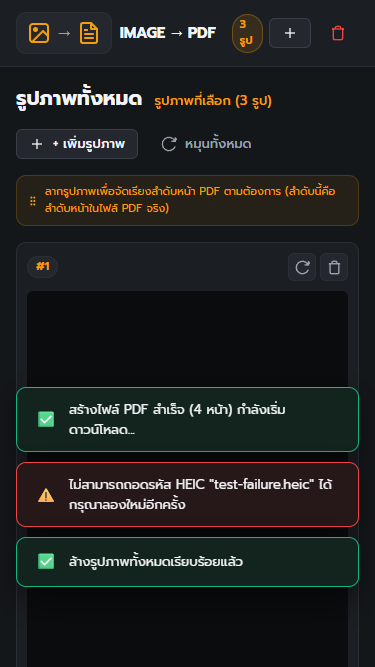
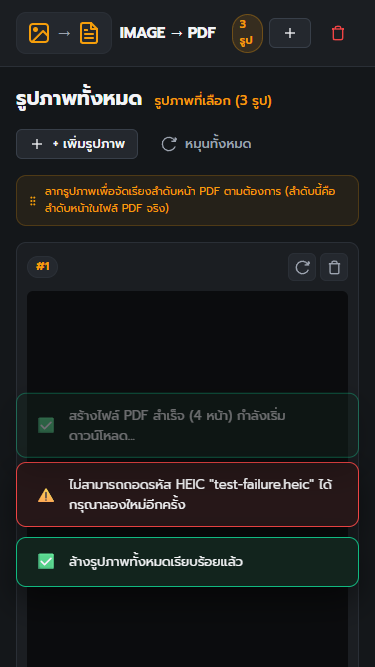
fix: resolve drag and drop reordering and external file dropping

Changed region(s): [[0.0293, 0.5697, 0.968, 0.6897], [0.0293, 0.5697, 0.088, 0.5997]]

diff --git a/app.js b/app.js
@@ -116,48 +116,61 @@
     // Rotate All
     el.btnRotateAll.addEventListener('click', handleRotateAll);
 
-    // Drag & Drop on Initial Drop Zone
-    ['dragenter', 'dragover'].forEach(eventName => {
-      el.initialDropZone.addEventListener(eventName, (e) => {
-        e.preventDefault();
-        e.stopPropagation();
-        el.initialDropZone.classList.add('drag-active');
-      });
-    });
+    // Helper to distinguish OS file drag vs internal card reorder drag
+    function isFileDrag(e) {
+      if (!e.dataTransfer || !e.dataTransfer.types) return false;
+      const types = Array.from(e.dataTransfer.types);
+      return types.includes('Files') || types.includes('application/x-moz-file');
+    }
 
-    ['dragleave', 'drop'].forEach(eventName => {
-      el.initialDropZone.addEventListener(eventName, (e) => {
-        e.preventDefault();
-        e.stopPropagation();
-        el.initialDropZone.classList.remove('drag-active');
-      });
-    });
+    let dragDepth = 0;
 
-    el.initialDropZone.addEventListener('drop', (e) => {
-      if (e.dataTransfer && e.dataTransfer.files) {
-        handleFiles(Array.from(e.dataTransfer.files));
-      }
-    });
-
-    // Drag & Drop onto entire window/workspace
-    window.addEventListener('dragover', (e) => {
+    // Window-level File Drag & Drop (Works on initial screen & active workspace)
+    window.addEventListener('dragenter', (e) => {
+      if (!isFileDrag(e)) return;
       e.preventDefault();
+      e.stopPropagation();
+      dragDepth++;
       if (state.items.length > 0) {
         el.workspaceDropArea.classList.add('drag-over');
+      } else {
+        el.initialDropZone.classList.add('drag-active');
       }
     });
 
-    ['dragleave', 'drop'].forEach(eventName => {
-      window.addEventListener(eventName, (e) => {
-        if (e.relatedTarget === null || eventName === 'drop') {
-          el.workspaceDropArea.classList.remove('drag-over');
-        }
-      });
+    window.addEventListener('dragover', (e) => {
+      if (!isFileDrag(e)) return;
+      e.preventDefault();
+      e.stopPropagation();
+      try {
+        e.dataTransfer.dropEffect = 'copy';
+      } catch (_) {}
+      if (state.items.length > 0) {
+        el.workspaceDropArea.classList.add('drag-over');
+      } else {
+        el.initialDropZone.classList.add('drag-active');
+      }
+    });
+
+    window.addEventListener('dragleave', (e) => {
+      if (!isFileDrag(e)) return;
+      e.preventDefault();
+      e.stopPropagation();
+      dragDepth = Math.max(0, dragDepth - 1);
+      if (dragDepth === 0) {
+        el.workspaceDropArea.classList.remove('drag-over');
+        el.initialDropZone.classList.remove('drag-active');
+      }
     });
 
     window.addEventListener('drop', (e) => {
+      if (!isFileDrag(e)) return;
       e.preventDefault();
+      e.stopPropagation();
+      dragDepth = 0;
       el.workspaceDropArea.classList.remove('drag-over');
+      el.initialDropZone.classList.remove('drag-active');
+
       if (e.dataTransfer && e.dataTransfer.files && e.dataTransfer.files.length > 0) {
         handleFiles(Array.from(e.dataTransfer.files));
       }
@@ -206,11 +219,18 @@
   // --- SortableJS Initialization ---
   function setupSortable() {
     if (window.Sortable && el.thumbnailGrid) {
+      if (sortableInstance) {
+        sortableInstance.destroy();
+      }
       sortableInstance = new Sortable(el.thumbnailGrid, {
         animation: 180,
-        handle: '.card-preview-container',
         ghostClass: 'sortable-ghost',
         chosenClass: 'sortable-chosen',
+        filter: '.card-action-btn, .reorder-btn, button, input, select, svg, path',
+        preventOnFilter: false,
+        fallbackOnBody: true,
+        swapThreshold: 0.65,
+        touchStartThreshold: 3,
         onEnd: function(evt) {
           if (evt.oldIndex !== evt.newIndex) {
             const [movedItem] = state.items.splice(evt.oldIndex, 1);
@@ -392,6 +412,7 @@
         const card = createCardElement(item, index);
         el.thumbnailGrid.appendChild(card);
       });
+      setupSortable();
     } else {
       // Just update existing card badges and indices for performance
       const cards = el.thumbnailGrid.querySelectorAll('.thumb-card');
@@ -432,7 +453,7 @@
       </div>
       
       <div class="card-preview-container" title="ลากเพื่อสลับลำดับ">
-        <img class="card-preview-img" src="${item.objectUrl}" alt="${escapeHtml(item.name)}" style="transform: rotate(${item.rotation}deg);">
+        <img class="card-preview-img" src="${item.objectUrl}" alt="${escapeHtml(item.name)}" draggable="false" style="transform: rotate(${item.rotation}deg);">
       </div>
 
       <div class="card-meta">
@@ -896,5 +917,6 @@
   }
 
 })();
+
 
 

diff --git a/styles.css b/styles.css
@@ -533,6 +533,11 @@ button, input, select, textarea {
   position: relative;
   transition: transform var(--transition-fast), box-shadow var(--transition-fast), border-color var(--transition-fast);
   user-select: none;
+  cursor: grab;
+}
+
+.thumb-card:active {
+  cursor: grabbing;
 }
 
 .thumb-card:hover {
@@ -626,6 +631,9 @@ button, input, select, textarea {
   object-fit: contain;
   transition: transform 0.25s cubic-bezier(0.2, 0, 0, 1);
   pointer-events: none;
+  -webkit-user-drag: none;
+  user-drag: none;
+  user-select: none;
 }
 
 /* Metadata Footer */
@@ -691,27 +699,41 @@ button, input, select, textarea {
 .workspace-drop-overlay {
   position: absolute;
   inset: 0;
-  background-color: rgba(15, 17, 19, 0.88);
+  background-color: rgba(15, 17, 19, 0.82);
   border: 3px dashed var(--accent-amber);
   border-radius: var(--radius-lg);
   display: flex;
-  flex-direction: column;
-  align-items: center;
+  align-items: flex-start;
   justify-content: center;
-  gap: 16px;
+  padding-top: 40px;
   color: var(--accent-amber);
-  font-size: 18px;
-  font-weight: 600;
   opacity: 0;
-  pointer-events: none;
+  pointer-events: none !important;
   transition: opacity var(--transition-fast);
   z-index: 50;
   backdrop-filter: blur(4px);
 }
 
+.workspace-drop-overlay-content {
+  position: sticky;
+  top: 35vh;
+  display: flex;
+  flex-direction: column;
+  align-items: center;
+  justify-content: center;
+  gap: 12px;
+  background-color: rgba(27, 30, 34, 0.95);
+  border: 1px solid var(--accent-amber);
+  padding: 24px 36px;
+  border-radius: var(--radius-lg);
+  box-shadow: 0 12px 32px rgba(0, 0, 0, 0.6);
+  font-size: 18px;
+  font-weight: 600;
+  pointer-events: none !important;
+}
+
 .workspace-canvas.drag-over .workspace-drop-overlay {
   opacity: 1;
-  pointer-events: auto;
 }
 
 /* ==========================================================================
@@ -1268,4 +1290,5 @@ button, input, select, textarea {
     width: 100% !important;
   }
 }
+
 

diff --git a/index.html b/index.html
@@ -201,12 +201,14 @@
             
             <!-- Floating drop overlay for dragging files into workspace -->
             <div class="workspace-drop-overlay" id="workspaceDropOverlay">
-              <svg width="48" height="48" viewBox="0 0 24 24" fill="none" stroke="currentColor" stroke-width="2">
-                <path d="M21 15v4a2 2 0 0 1-2 2H5a2 2 0 0 1-2-2v-4"/>
-                <polyline points="17 8 12 3 7 8"/>
-                <line x1="12" y1="3" x2="12" y2="15"/>
-              </svg>
-              <p>ปล่อยรูปภาพที่นี่เพื่อเพิ่มเข้ารายการ</p>
+              <div class="workspace-drop-overlay-content">
+                <svg width="48" height="48" viewBox="0 0 24 24" fill="none" stroke="currentColor" stroke-width="2">
+                  <path d="M21 15v4a2 2 0 0 1-2 2H5a2 2 0 0 1-2-2v-4"/>
+                  <polyline points="17 8 12 3 7 8"/>
+                  <line x1="12" y1="3" x2="12" y2="15"/>
+                </svg>
+                <p>ปล่อยรูปภาพที่นี่เพื่อเพิ่มเข้ารายการ</p>
+              </div>
             </div>
           </div>
         </div>
@@ -408,6 +410,7 @@
   <script src="app.js"></script>
 </body>
 </html>
+
 
 
 
